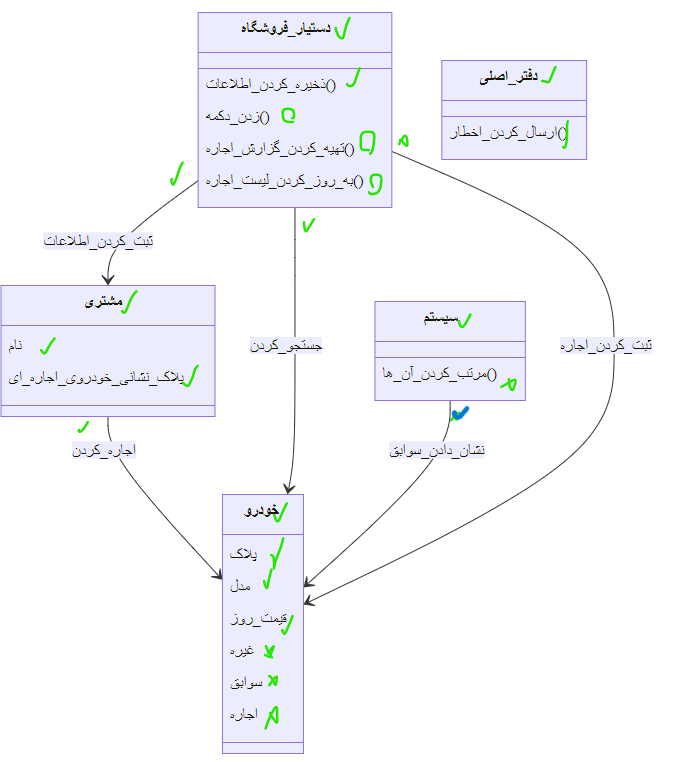
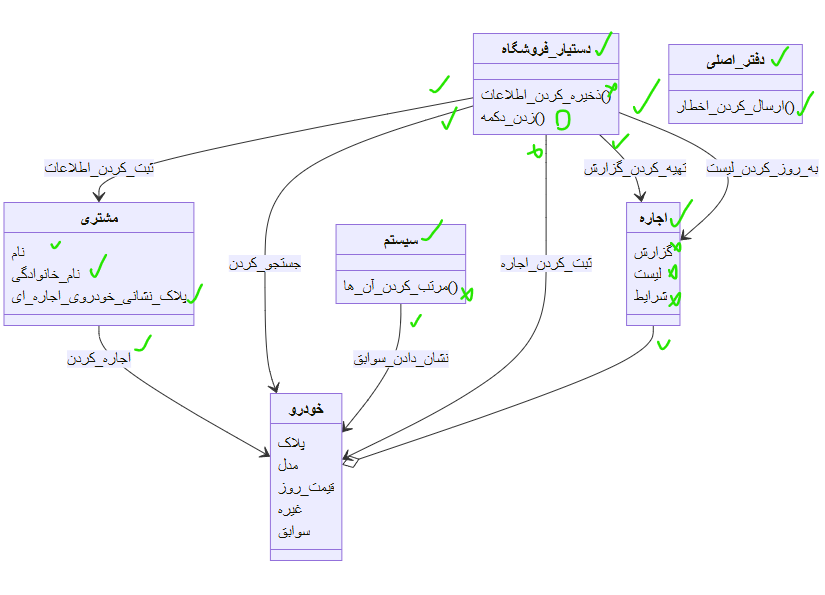
bigger name already exist and short name is used

diff --git a/ClassDiagramExtractor.py b/ClassDiagramExtractor.py
@@ -1,6 +1,7 @@
 from Diagram import DesignElement, RelationBase, ClassElement, ClassDiagram
 from Requirement import Requirement
 import re
+from PNLP import Sentence
 
 
 class ClassDiagramExtractor:
@@ -122,12 +123,32 @@ class ClassDiagramExtractor:
 
                 same_class = self.find_class_by_name(name)
                 if same_class is None:
-                    # if self.word_compound_exist(name_nodes):
-                    #     continue
-                    self.diagram.add_class(ClassElement(name, node, sentence=sentence))
+                    split_index = self.get_shorter_compound_class(name_nodes)
+                    if split_index != -1:
+                        self.add_shorter_class(sentence, name, name_nodes, split_index)
+                    else:
+                        self.diagram.add_class(ClassElement(name, node, sentence=sentence))
                 else:
                     if not same_class.node.is_subject() and node.is_subject():
                         same_class.node = node
+
+    def add_shorter_class(self, sentence, name, name_nodes, split_index):
+        right_part = Sentence.nodes_to_text(name_nodes[:split_index])
+
+        same_class = self.find_class_by_name(right_part)
+        if same_class is None:
+            if self.always_together(right_part):
+                self.diagram.add_class(ClassElement(name, name_nodes[0], sentence=sentence))
+            else:
+                self.diagram.add_class(ClassElement(right_part, name_nodes[0], sentence=sentence))
+
+    def always_together(self, shorter_text):
+        names = []
+        for sentence in self.requirement.sentences:
+            for node in sentence.nlp_nodes:
+                names += [name for name, name_nodes in sentence.find_seq_names(node)]
+        count = len([name for name in names if name == shorter_text])
+        return count == 0
 
     # attributes
     def extract_attributes(self):
@@ -661,8 +682,8 @@ class ClassDiagramExtractor:
                         for item in result:
                             name, name_nodes = item
 
-                            names = [node.text for node in name_nodes]
-                            ending_target = self.add_ending_target_association(source, relation, names)
+                            # names = [node.text for node in name_nodes]
+                            ending_target = self.add_ending_target_association(source, relation, name_nodes)
                             if not ending_target:
                                 source.add_operation(f"{title} {name}", relation.target_node)
                     else:
@@ -675,20 +696,23 @@ class ClassDiagramExtractor:
                     source.add_operation(title.text, title.node)
                 continue
             if self.is_weak_class(target):
-                names = target.text.split(" ")
-                ending_target = self.add_ending_target_association(source, relation, names)
-                if not ending_target:
-                    operation_title = f"{title.text} {target.text}"
-                    source.add_operation(operation_title, title.node)
 
-    def add_ending_target_association(self, class_element, relation, names):
+                result = target.sentence.find_seq_names(target.node)
+                for item in result:
+                    name, name_nodes = item
+                    ending_target = self.add_ending_target_association(source, relation, name_nodes)
+                    if not ending_target:
+                        operation_title = f"{title.text} {target.text}"
+                        source.add_operation(operation_title, title.node)
+
+    def add_ending_target_association(self, class_element, relation, name_nodes):
         target_name = ''
-        for index in range(len(names) - 1, -1, -1):
-            end_name = names[index]
-            target_name = end_name if target_name == '' else f"{end_name} {target_name}"
+        for index in range(len(name_nodes) - 1, -1, -1):
+            end_node = name_nodes[index]
+            target_name = end_node.lemma if target_name == '' else f"{end_node.text} {target_name}"
             target = self.find_class_by_name(target_name)
             if target and not self.is_weak_class(target):
-                text = f"{relation.relation_title.text} {''.join(names[:index])}"
+                text = f"{relation.relation_title.text} {Sentence.nodes_to_text(name_nodes[:index])}"
                 self.diagram.add_association(class_element, target, relation, text)
                 return target
         return None
@@ -863,9 +887,10 @@ class ClassDiagramExtractor:
         filtered = [element for element in self.diagram.classes if element.text == text]
         return filtered[0] if len(filtered) > 0 else None
 
-    def word_compound_exist(self, nodes):
+    def get_shorter_compound_class(self, nodes):
         compound = ''
-        for node in reversed(nodes):
+        for index in range(len(nodes)):
+            node = nodes[-1 - index]
             if compound == '':
                 class_element = self.find_class_by_name(node.lemma)
                 compound = node.text
@@ -873,8 +898,8 @@ class ClassDiagramExtractor:
                 compound = f"{node.text}{' ' if compound != '' else ''}{compound}"
                 class_element = self.find_class_by_name(compound)
             if class_element is not None:
-                return True
-        return False
+                return len(nodes) - 1 - index
+        return -1
 
     def find_class_by_node_text(self, text):
         filtered = [element for element in self.diagram.classes if element.node.text == text]

diff --git a/PNLP.py b/PNLP.py
@@ -398,3 +398,16 @@ class Sentence:
 
     def find_between_nodes(self, start_address, end_address):
         return [node for node in self.nlp_nodes if start_address < node.address < end_address]
+
+    @staticmethod
+    def nodes_to_text(nodes):
+        word = ''
+        for index in range(len(nodes)):
+            node = nodes[index]
+            if index == 0:
+                word += node.lemma
+            elif index == len(nodes) - 1:
+                word += " " + node.lemma
+            else:
+                word += " " + node.text
+        return word
